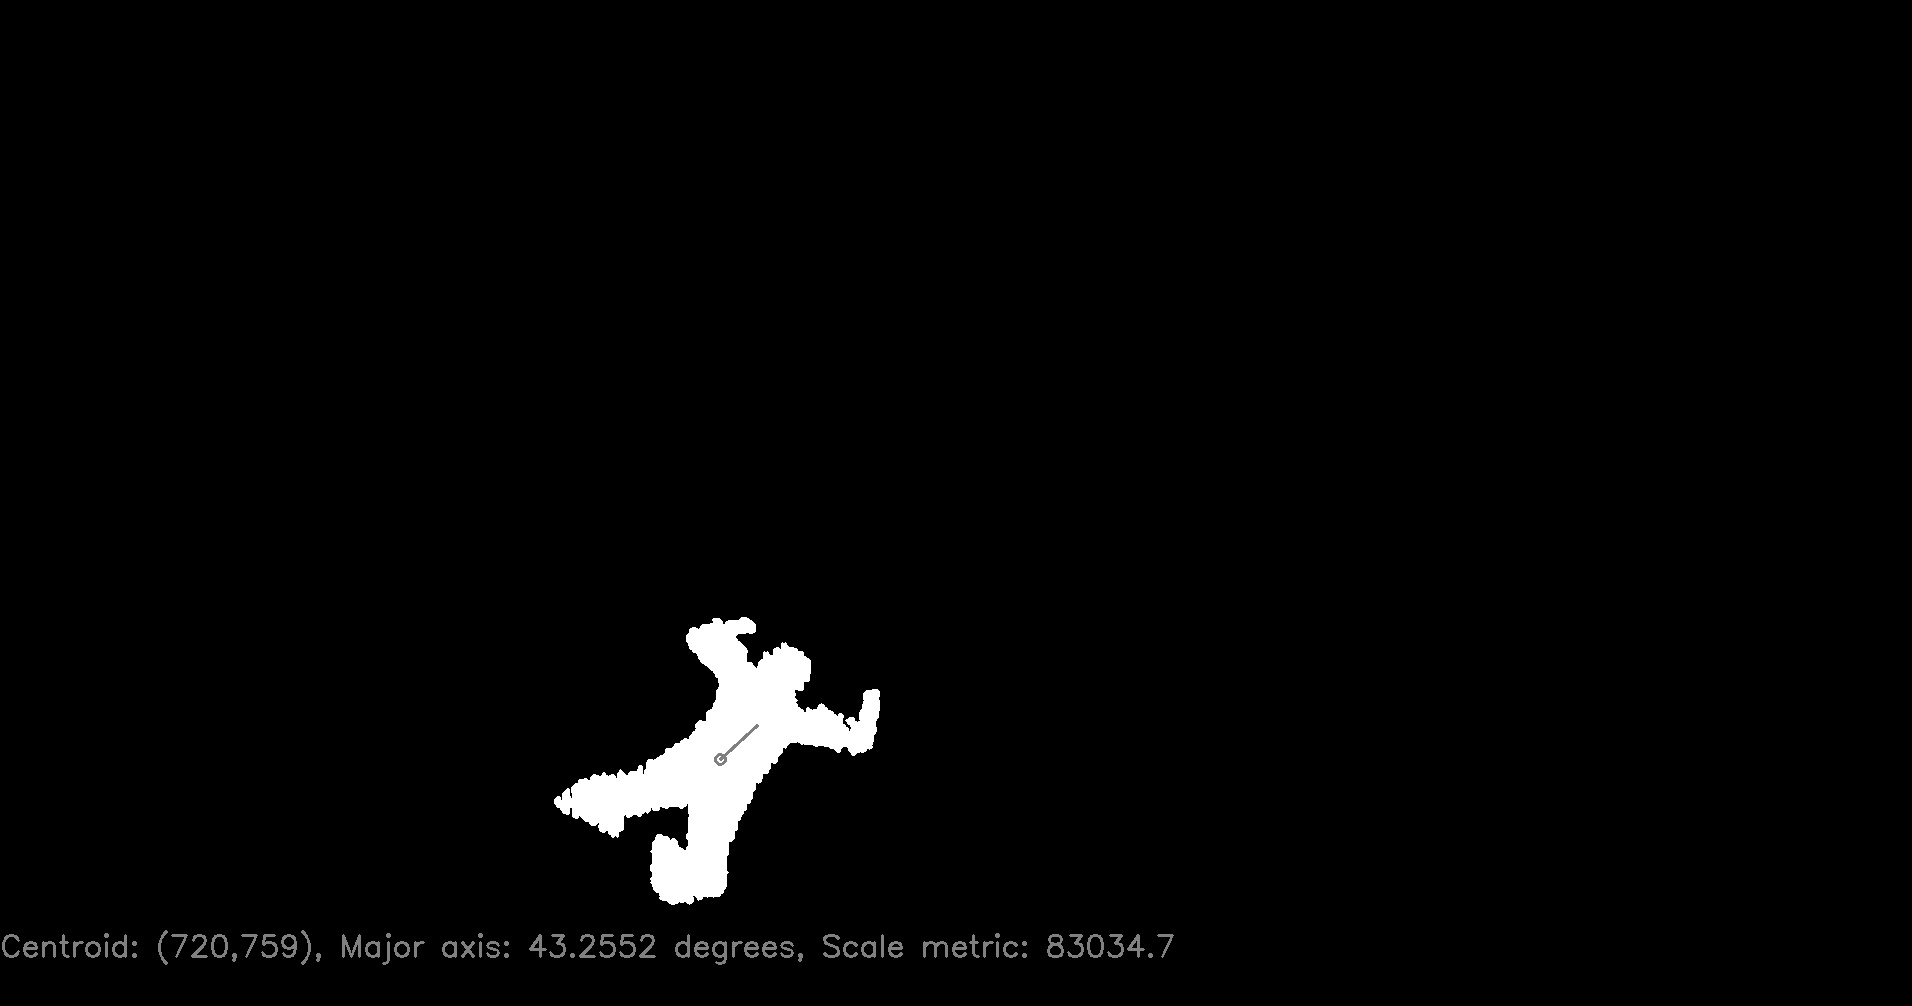
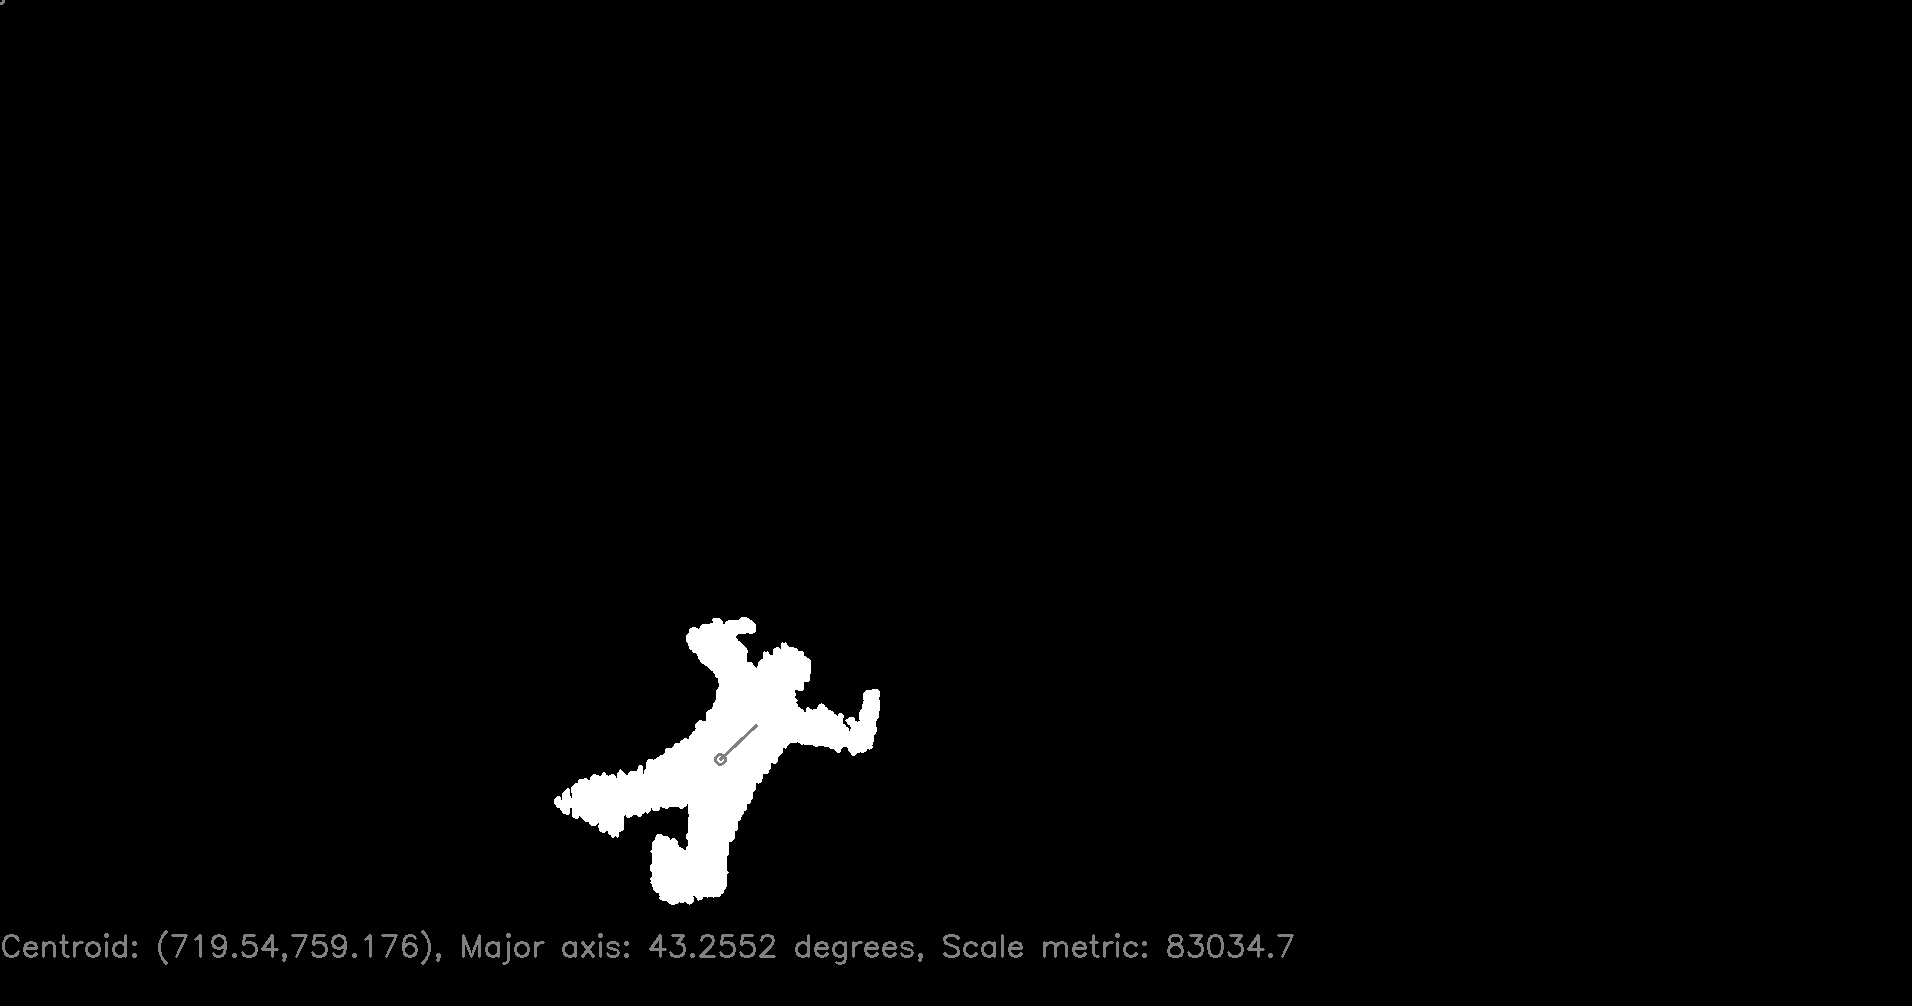
'Commit_from_Code::Block_IDE'

Changed region(s): [[0.0926, 0.9245, 0.6789, 0.9553]]

diff --git a/Source/skydiver_blobs/main.cpp b/Source/skydiver_blobs/main.cpp
@@ -68,10 +68,46 @@ int main()
     for(int i=0; i<4; i++)
         skydivers[i].approx_parameters(skydiverBlobContours[i], src.rows, src.cols);
 
+    vector<vector<Point2f> > meanPointsVec;
+    if(!load_data_pts("data_points_mean.txt", meanPointsVec))
+        cout << "Could not open mean data points file." << endl;
+    vector<Point2f> meanPoints = meanPointsVec[0];
+
+    double meanScaleMetric = get_scale_metric(meanPoints);
+    Point2f meanCentroid = get_vec_centroid(meanPoints);
+    Mat meanPointsMat(meanPoints);
+    double meanOrientation = get_major_axis(meanPointsMat);
+
+    double initialScale[4];
+    Point2f initialTranslation[4];
+    double initialRotation[4];
+    Mat initialModelFitMat[4];
+    vector<vector<Point2f> > initialModelFit(4);
+
+
     for(int i=0; i<4; i++) //For each skydiver blob
     {
-        cout << "Skydiver " << i << ": orientation = " << skydivers[i].orientation << " degrees, centroid = (" << skydivers[i].centroid.x << ", " << skydivers[i].centroid.y << ")" << endl;
+        initialScale[i] = skydivers[i].scaleMetric/meanScaleMetric;
+        initialTranslation[i] = skydivers[i].centroid - meanCentroid;
+        initialRotation[i] = skydivers[i].orientation - meanOrientation;
+
+        initialModelFitMat[i] = meanPointsMat;
+        initialModelFitMat[i] *= initialScale[i];
+        initialModelFitMat[i] += Scalar(initialTranslation[i].x, initialTranslation[i].y);
+
+        cout << "scale: " << initialScale[i];
+        cout << ", translation: " << initialTranslation[i];
+        cout << ", rotation: " << initialRotation[i] << endl;
+
+        cout << initialModelFitMat[i] << endl;
+
+        initialModelFitMat[i].reshape(2).copyTo(initialModelFit[i]);
+
+        //Output
         Mat params = skydivers[i].paramaters_image();
+        Scalar colour(128);
+        plot_pts(params, initialModelFit[i], colour);
+
         imshow("Window", params);
 
         stringstream numSS("");

diff --git a/Source/mw_libCV.h b/Source/mw_libCV.h
@@ -64,7 +64,7 @@ inline bool load_data_pts(string data_file_path, vector<vector<Point2f> >& data)
         return false;
     }
 
-    int x,y;
+    double x,y;
 
     for(int i=0; !dataFile.eof(); i++)
     {
@@ -143,8 +143,8 @@ inline double get_major_axis(Mat& binary_img, bool use_degrees = true)
     return theta;
 }
 
-inline double get_scale_metric(vector<Point>& pts)
-{//centroid size
+inline Point2f get_vec_centroid(vector<Point2f>& pts)
+{
     Point2f centroid;
     for(int i=0; i<pts.size(); i++)
     {
@@ -154,6 +154,13 @@ inline double get_scale_metric(vector<Point>& pts)
     centroid.x /= pts.size();
     centroid.y /= pts.size();
 
+    return centroid;
+}
+
+inline double get_scale_metric(vector<Point2f>& pts)
+{//centroid size
+
+    Point2f centroid = get_vec_centroid(pts);
     double scaleMetric = 0;
     for(int i=0; i<pts.size(); i++)
         scaleMetric += sqrt((pts[i].x-centroid.x)*(pts[i].x-centroid.x) + (pts[i].y-centroid.y)*(pts[i].y-centroid.y));

diff --git a/Source/skydiver_blobs/skydiverblob.cpp b/Source/skydiver_blobs/skydiverblob.cpp
@@ -21,7 +21,9 @@ void SkydiverBlob::approx_parameters(std::vector<cv::Point> Contour, int Src_row
 
     this->orientation = get_major_axis(this->mask);
     this->centroid = get_centroid(this->mask);
-    this->scaleMetric = get_scale_metric(this->contour);
+    vector<Point2f> contour2f;
+    Mat(this->contour).copyTo(contour2f);
+    this->scaleMetric = get_scale_metric(contour2f);
 
     return;
 }

diff --git a/Source/skydiver_blobs/skydiverblob.h b/Source/skydiver_blobs/skydiverblob.h
@@ -18,10 +18,10 @@ class SkydiverBlob
 
         std::vector<cv::Point> contour;
         cv::Mat mask;
-        cv::Point centroid;
+        cv::Point2f centroid;
         double orientation;
         double scaleMetric;
-        cv::Point translation; //translation offset
+        cv::Point2f translation; //translation offset
 };
 
 #endif // SKYDIVERBLOB_H
